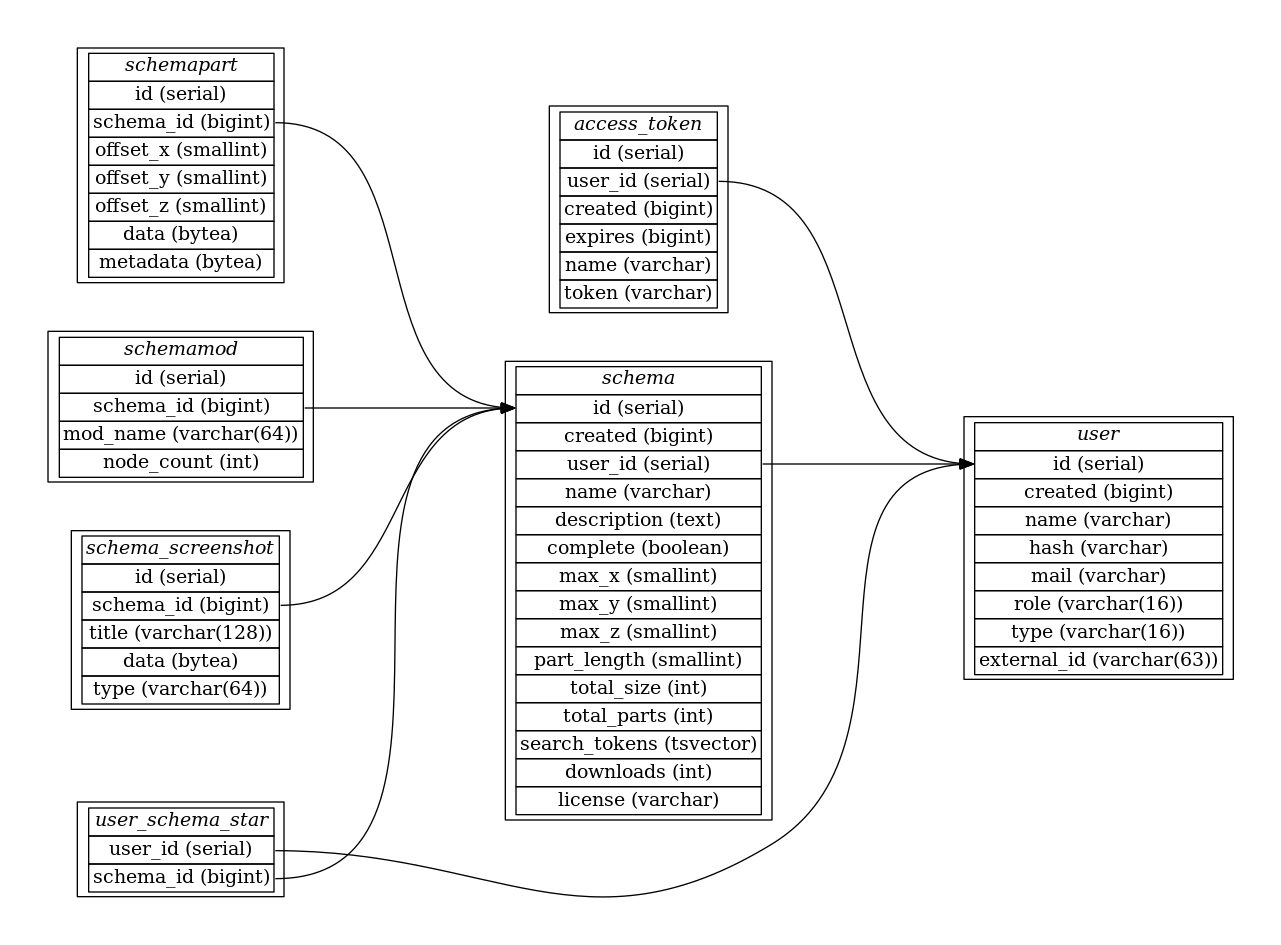
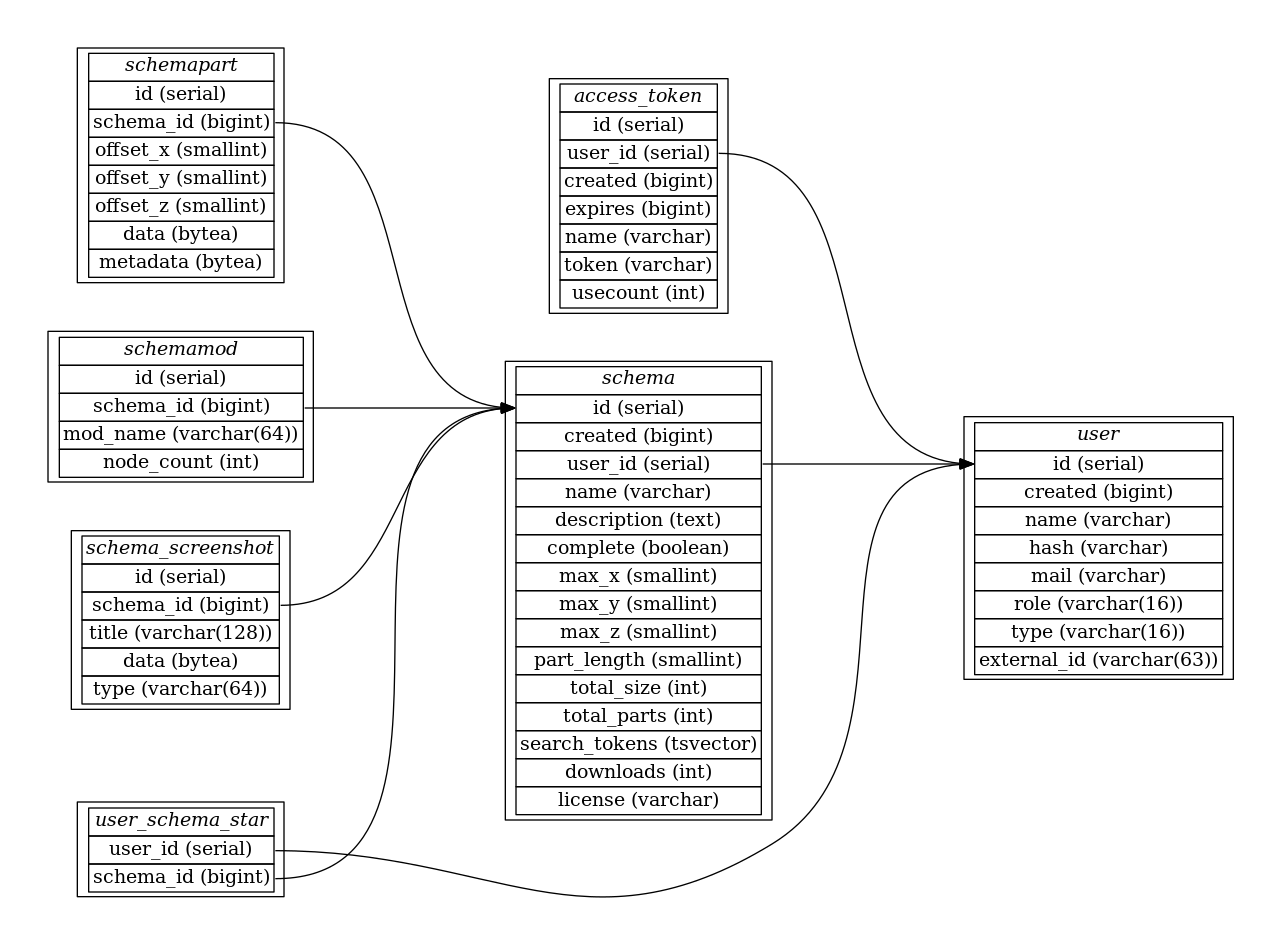
add access_token.usecount field

Changed region(s): [[0.4372, 0.0614, 0.5621, 0.3376], [0.6245, 0.2455, 0.6557, 0.3069], [0.6557, 0.3376, 0.687, 0.3683]]

diff --git a/src/dao/access_token.js b/src/dao/access_token.js
@@ -31,3 +31,15 @@ module.exports.find_all_by_userid = function(user_id) {
 
   return executor(query, values);
 };
+
+module.exports.increment_usecount = function(id) {
+  const query = `
+    update access_token
+    set usecount = usecount + 1
+    where id = $1
+  `;
+
+  const values = [id];
+
+  return executor(query, values, { single_row: true });
+};
